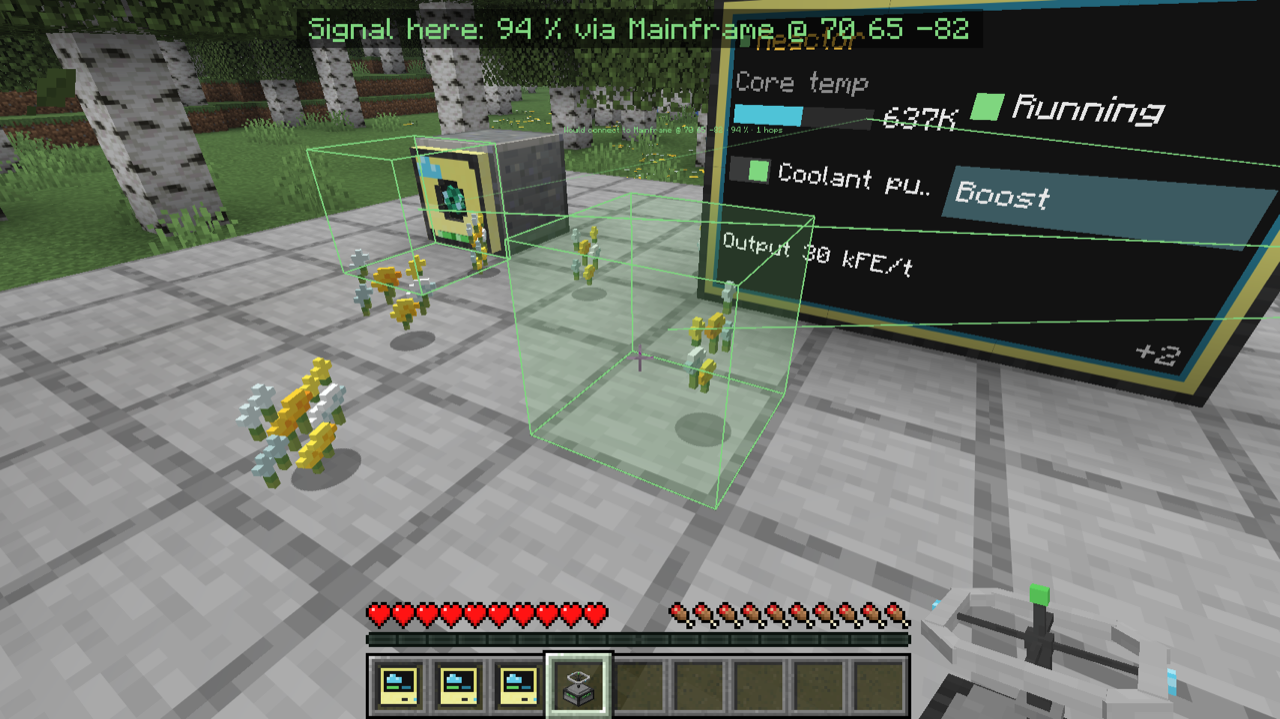
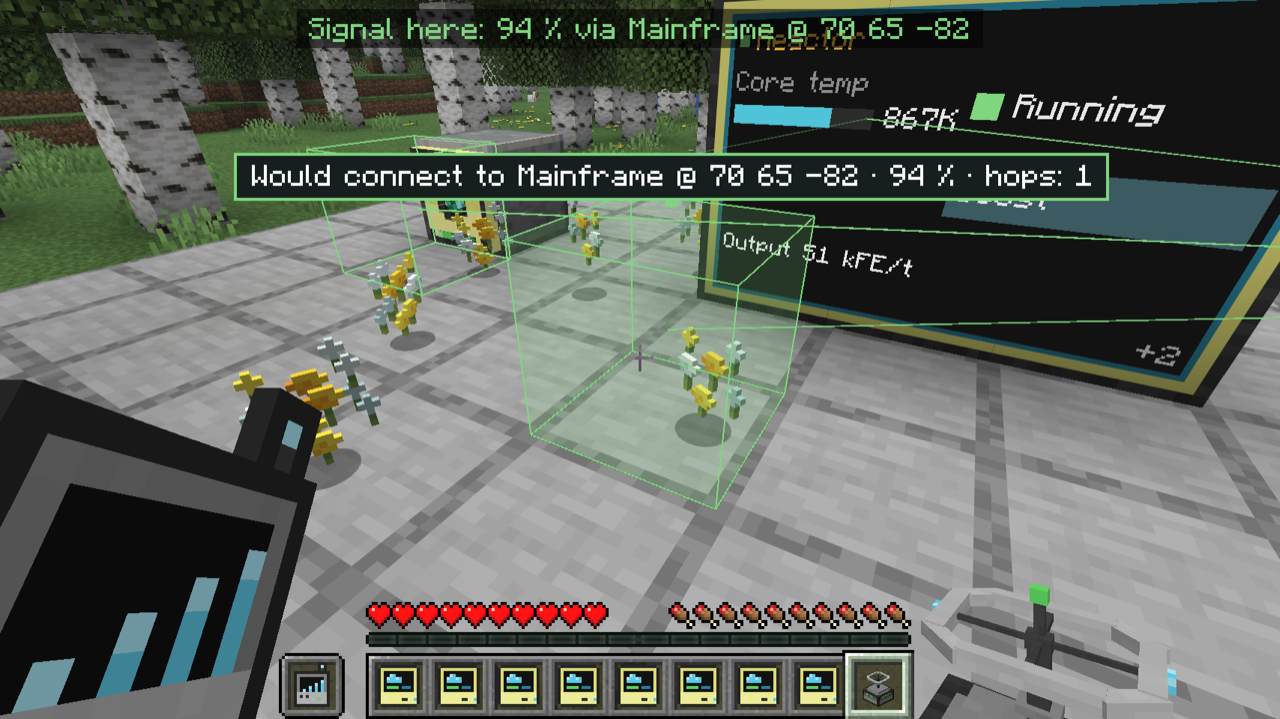
Cloud Analyzer: placement label as a readable billboard panel (scaled by distance, clamped, above everything); refreshed screenshots

diff --git a/src/main/java/ai/ezfox/cccloud/client/analyzer/AnalyzerOverlay.java b/src/main/java/ai/ezfox/cccloud/client/analyzer/AnalyzerOverlay.java
@@ -11,18 +11,20 @@ import java.util.HashMap;
 import java.util.List;
 import java.util.Map;
 import net.minecraft.client.DeltaTracker;
+import net.minecraft.util.Mth;
+import net.neoforged.neoforge.client.event.RenderLevelStageEvent;
 import net.minecraft.client.Minecraft;
 import net.minecraft.client.gui.GuiGraphicsExtractor;
 import net.minecraft.client.resources.language.I18n;
 import net.minecraft.core.BlockPos;
 import net.minecraft.gizmos.GizmoStyle;
 import net.minecraft.gizmos.Gizmos;
-import net.minecraft.gizmos.TextGizmo;
 import net.minecraft.world.item.Item;
 import net.minecraft.world.phys.AABB;
 import net.minecraft.world.phys.BlockHitResult;
 import net.minecraft.world.phys.HitResult;
 import net.minecraft.world.phys.Vec3;
+import org.joml.Vector4f;
 import org.jspecify.annotations.Nullable;
 
 /**
@@ -107,6 +109,7 @@ public final class AnalyzerOverlay {
     public static void tick() {
         var mc = Minecraft.getInstance();
         hud = "";
+        previewLabel = null;
         if (mc.player == null || mc.level == null) return;
         if (!highlight.isEmpty()) {
             if (System.currentTimeMillis() > highlightUntil) highlight = List.of();
@@ -215,7 +218,69 @@ public final class AnalyzerOverlay {
         } else {
             label = I18n.get("cccloud.analyzer.no_network");
         }
-        Gizmos.billboardText(label, center.add(0, 0.9, 0), TextGizmo.Style.forColorAndCentered(color).withScale(0.05f)).setAlwaysOnTop();
+        previewLabel = new Label(label, center.add(0, 0.6, 0), color);
+    }
+
+    // ---- placement label billboard -----------------------------------------------------------------------------------
+
+    private record Label(String text, Vec3 pos, int color) {
+    }
+
+    private static volatile @Nullable Label previewLabel;
+    /** Where the label's anchor is on screen this frame: x, y in 0..1 (top-left origin) and the camera distance; null if behind. */
+    private static volatile float @Nullable [] labelScreen;
+    /** GUI scale of the label: {@code LABEL_SCALE_AT / distance}, clamped so it stays readable near and far. */
+    static final float LABEL_SCALE_AT = 2.5f, MIN_LABEL_SCALE = 0.55f, MAX_LABEL_SCALE = 1f;
+
+    static float labelScale(double distance) {
+        return Mth.clamp((float) (LABEL_SCALE_AT / Math.max(0.1, distance)), MIN_LABEL_SCALE, MAX_LABEL_SCALE);
+    }
+
+    /**
+     * Projects the placement label's world anchor to the screen (after the level is drawn, with this frame's matrices),
+     * so the HUD can draw it as a billboard panel above everything.
+     */
+    public static void projectLabel(RenderLevelStageEvent.AfterWeather event) {
+        var label = previewLabel;
+        var camera = event.getLevelRenderState().cameraRenderState;
+        if (label == null || !camera.initialized) {
+            labelScreen = null;
+            return;
+        }
+        Vec3 rel = label.pos().subtract(camera.pos);
+        var clip = new Vector4f((float) rel.x, (float) rel.y, (float) rel.z, 1f);
+        clip.mul(event.getModelViewMatrix());
+        clip.mul(camera.projectionMatrix);
+        if (clip.w <= 0.05f) {
+            labelScreen = null;
+            return;
+        }
+        float nx = clip.x / clip.w, ny = clip.y / clip.w;
+        labelScreen = new float[]{(nx + 1) / 2, (1 - ny) / 2, (float) rel.length()};
+    }
+
+    /** The placement label as a billboard: a panel with a border above the ghost block, scaled by distance (clamped). */
+    private static void renderLabel(GuiGraphicsExtractor g, Minecraft mc) {
+        var label = previewLabel;
+        var at = labelScreen;
+        if (label == null || at == null) return;
+        float scale = labelScale(at[2]);
+        int w = mc.font.width(label.text());
+        // Keep the panel on screen and below the HUD signal line.
+        float half = (w / 2f + 6) * scale;
+        float cx = Mth.clamp(at[0] * g.guiWidth(), half, Math.max(half, g.guiWidth() - half));
+        float cy = Math.max(20 + 18 * scale, at[1] * g.guiHeight());
+        g.pose().pushMatrix();
+        g.pose().translate(cx, cy);
+        g.pose().scale(scale, scale);
+        int x0 = -w / 2 - 5, y0 = -16, x1 = w / 2 + 5, y1 = -2;
+        int border = (label.color() & 0x00FFFFFF) | 0xFF000000;
+        g.fill(x0 - 1, y0 - 1, x1 + 1, y1 + 1, border);
+        g.fill(x0, y0, x1, y1, 0xF0101418);
+        // A small pointer down to the block.
+        g.fill(-2, y1 + 1, 2, y1 + 3, border);
+        g.text(mc.font, label.text(), -w / 2, y0 + 3, 0xFFFFFFFF, false);
+        g.pose().popMatrix();
     }
 
     private static void hudLine(Minecraft mc, JsonObject data) {
@@ -262,6 +327,7 @@ public final class AnalyzerOverlay {
         if (hud.isEmpty() || mode == null) return;
         var mc = Minecraft.getInstance();
         if (mc.options.hideGui) return;
+        renderLabel(g, mc);
         int w = mc.font.width(hud);
         int x = (g.guiWidth() - w) / 2;
         g.fill(x - 4, 3, x + w + 4, 16, 0x90000000);

diff --git a/src/main/java/ai/ezfox/cccloud/client/InGameClient.java b/src/main/java/ai/ezfox/cccloud/client/InGameClient.java
@@ -38,6 +38,11 @@ public final class InGameClient {
     }
 
     @SubscribeEvent
+    static void onRenderLevel(net.neoforged.neoforge.client.event.RenderLevelStageEvent.AfterWeather event) {
+        ai.ezfox.cccloud.client.analyzer.AnalyzerOverlay.projectLabel(event);
+    }
+
+    @SubscribeEvent
     static void setup(FMLClientSetupEvent event) {
         ai.ezfox.cccloud.client.dev.DemoCapture.init();
         InGamePayloads.clientAnalyzerHandler = payload -> ai.ezfox.cccloud.client.analyzer.AnalyzerOverlay.accept(payload.json());

diff --git a/docs/SPEC.md b/docs/SPEC.md
@@ -738,7 +738,7 @@ Upgrade cards (stack effects by tier, one card per type counts – the highest t
 ### Tablet + Display – Implementation notes (mod side)
 Code: `ingame/` (shared: access helper, coverage, hub session, payloads, registry, dashboard model), `tablet/`, `display/`, client in `client/gui/{TabletScreen,DisplayScreen}` and `client/display/`. `CCCloud` calls `InGameRegistry.init` once. No new browser message types: in-game clients use the browser protocol inside custom payloads.
 
-**Rights** (all through `ingame.InGameAccess` → the AccessResolver's fine-grained permissions): the tablet needs `view`; every action is checked live by the bridge with the same per-widget-kind permission as a browser action (`act.buttons`, `act.redstone`, `storage.*` via `AccessGate.actionPerm`); restricted sections reach the tablet only with the permissions the hub requires (filtered by the session's permissions, changes are pushed); binding a display needs `network.link`, choosing what it shows `layout.edit`, in-world clicks `act.buttons` of the clicking player. Share-link viewers never get anything: in-game clients are always a real player. Cached sections of unloaded chunks (`loaded:false`, `lastSeen`) are shown greyed with the time they were last seen (tablet and display); their controls are disabled.
+**Rights** (all through `ingame.InGameAccess` → the AccessResolver's fine-grained permissions): the tablet needs `view`; every action is checked live by the bridge with the same per-widget-kind permission as a browser action (`act.buttons`, `act.redstone`, `storage.*` via `AccessGate.actionPerm`); restricted sections reach the tablet only with the permissions the hub requires (filtered by the session's permissions, changes are pushed); binding a display needs `network.link`, choosing what it shows `layout.edit`, in-world clicks `act.buttons` of the clicking player. Share-link viewers never get anything: in-game clients are always a real player. Label widgets follow the web rule: long (> 32 characters) or multi-entry values (" · ", ";", newlines, e.g. tick time per dimension) get the caption on its own row and one line per entry below (with the TPS a tick time allows); otherwise the caption, not the value, is cut with an ellipsis. Cached sections of unloaded chunks (`loaded:false`, `lastSeen`) are shown greyed with the time they were last seen (tablet and display); their controls are disabled.
 
 **Cloud Tablet** (`cccloud:cloud_tablet`, `cccloud:advanced_cloud_tablet`, stack size 1):
 - Link: right-click a mainframe (viewer and up). Open: right-click, or the key "Open Cloud Tablet" (unbound by default) – the first linked tablet in the hands, inventory or Curios slots. Curios: the tablets are in the `curios:belt` item tag and `data/cccloud/curios/entities/cloud_tablet.json` gives players a belt slot (data only; the Curios API is only used to find a tablet, `compile/runtime` via `top.theillusivec4.curios:curios-neoforge:15.0.0+26.1.2`, soft).
@@ -868,7 +868,7 @@ Code: `analyzer/` (geometry + preview, service, item, device info), `client/anal
 - **Item** `cccloud:cloud_analyzer` (stack size 1, recipe: pocket computer + cloud core + redstone + glass pane, shapeless). The overlay also shows while holding a Link Card or a mainframe/uplink/relay/bridge item (main or off hand); client config `analyzerOverlay` (default true).
 - **Payload** `cccloud:analyzer_data` (S2C, JSON ≤ 256 KB): `{"dim","nodes":[{id,net,name,type,x,y,z,nr,dr,ok,hops,ps,status}],"devices":[{id,net,name,type,x,y,z,r,signal,hops,status}],"links":[{a,b,signal,kind (radio|ender|wired|fiber),used?}],"ranges":{"uplink":[r],"advanced_uplink":[r],"bridge":[r],"relay":[nodeRange,deviceRange],…}}`; `{}` clears it. Only networks where the player has `view.positions`; only the player's dimension; devices and links within 128 blocks, nodes whose device bubble reaches within 128 blocks; at most 256 elements, nearest first. Checked every 10 ticks while such an item is held, sent when it changed and at least every 2 s; one `{}` when the player stops holding it.
 - **Overlay** (client tick, vanilla gizmos, always on top): range bubbles (rings: device range + node range; spheres: latitude rings with LOD by distance; off), cycled with the key "Cloud Analyzer: ranges" (unbound) or sneak + scroll with the analyzer; links coloured by signal (green, yellow below 15 %, red broken; cyan for CC cable and fiber links; faint if unused; dashed ender links); device markers by status; at most 256 shapes.
-- **Placement preview** (holding a relay/uplink/bridge, looking at a block): ghost box and range circle at the placement position, a line to the node it would attach to and the label "Would connect to X · 68 % · 2 hops" / "Out of range – nearest node: X, 143 blocks (range 96)". Same rules as the server's network graph (link if the distance is at most the larger range; fewest hops, then best signal; max 8 hops); a GameTest checks it against `NetworkService.checkLink`. Radio links only: a device that will sit on a CC cable or fiber is not predicted.
+- **Placement preview** (holding a relay/uplink/bridge, looking at a block): ghost box and range circle at the placement position, a line to the node it would attach to and a billboard label (panel with a coloured border, drawn above everything, scaled with the distance and clamped to a readable size, kept on screen) "Would connect to X · 68 % · hops: 2" / "Out of range – nearest node: X, 143 blocks (range 96)". Same rules as the server's network graph (link if the distance is at most the larger range; fewest hops, then best signal; max 8 hops); a GameTest checks it against `NetworkService.checkLink`. Radio links only: a device that will sit on a CC cable or fiber is not predicted.
 - **HUD line** (top centre): "Signal here: 72 % via X" or "No coverage ↗ X, 143 blocks" (arrow relative to the view direction).
 - **Right-click** a cloud block with the analyzer: chat summary (status, signal, hops, route as block types, power) for networks with `view`; sneak + right-click highlights the route to the mainframe for 10 s (needs `view.positions`).
 - **Jade** on uplinks, relays and bridges: signal and hops, route ("Mainframe → Cloud Relay → Cloud Uplink") and the reason when not online (`no_route`, `no_power`, `legacy_out_of_range`, `unloaded`), only for networks where the looking player has `view`; no coordinates.
